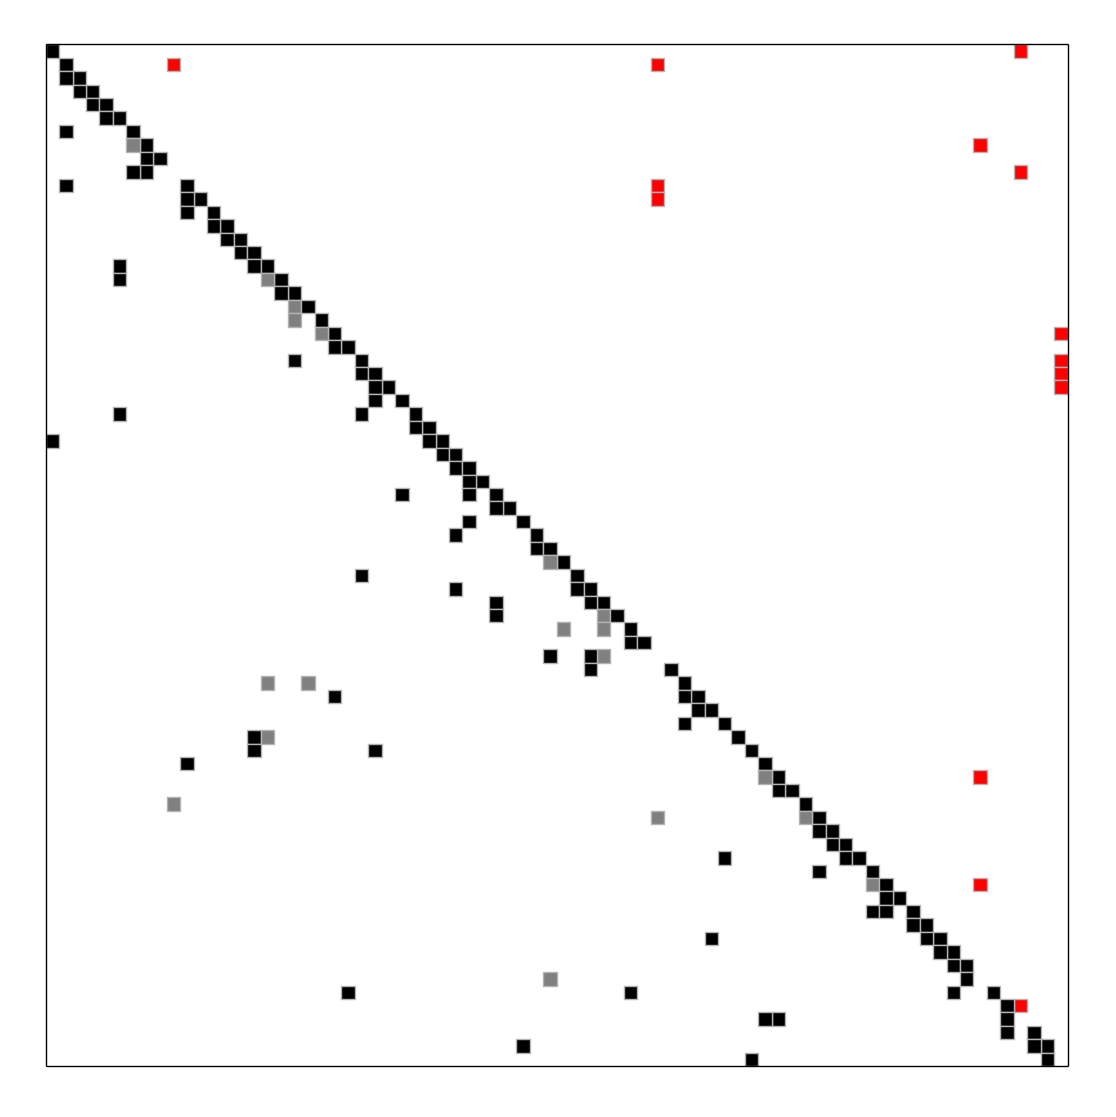
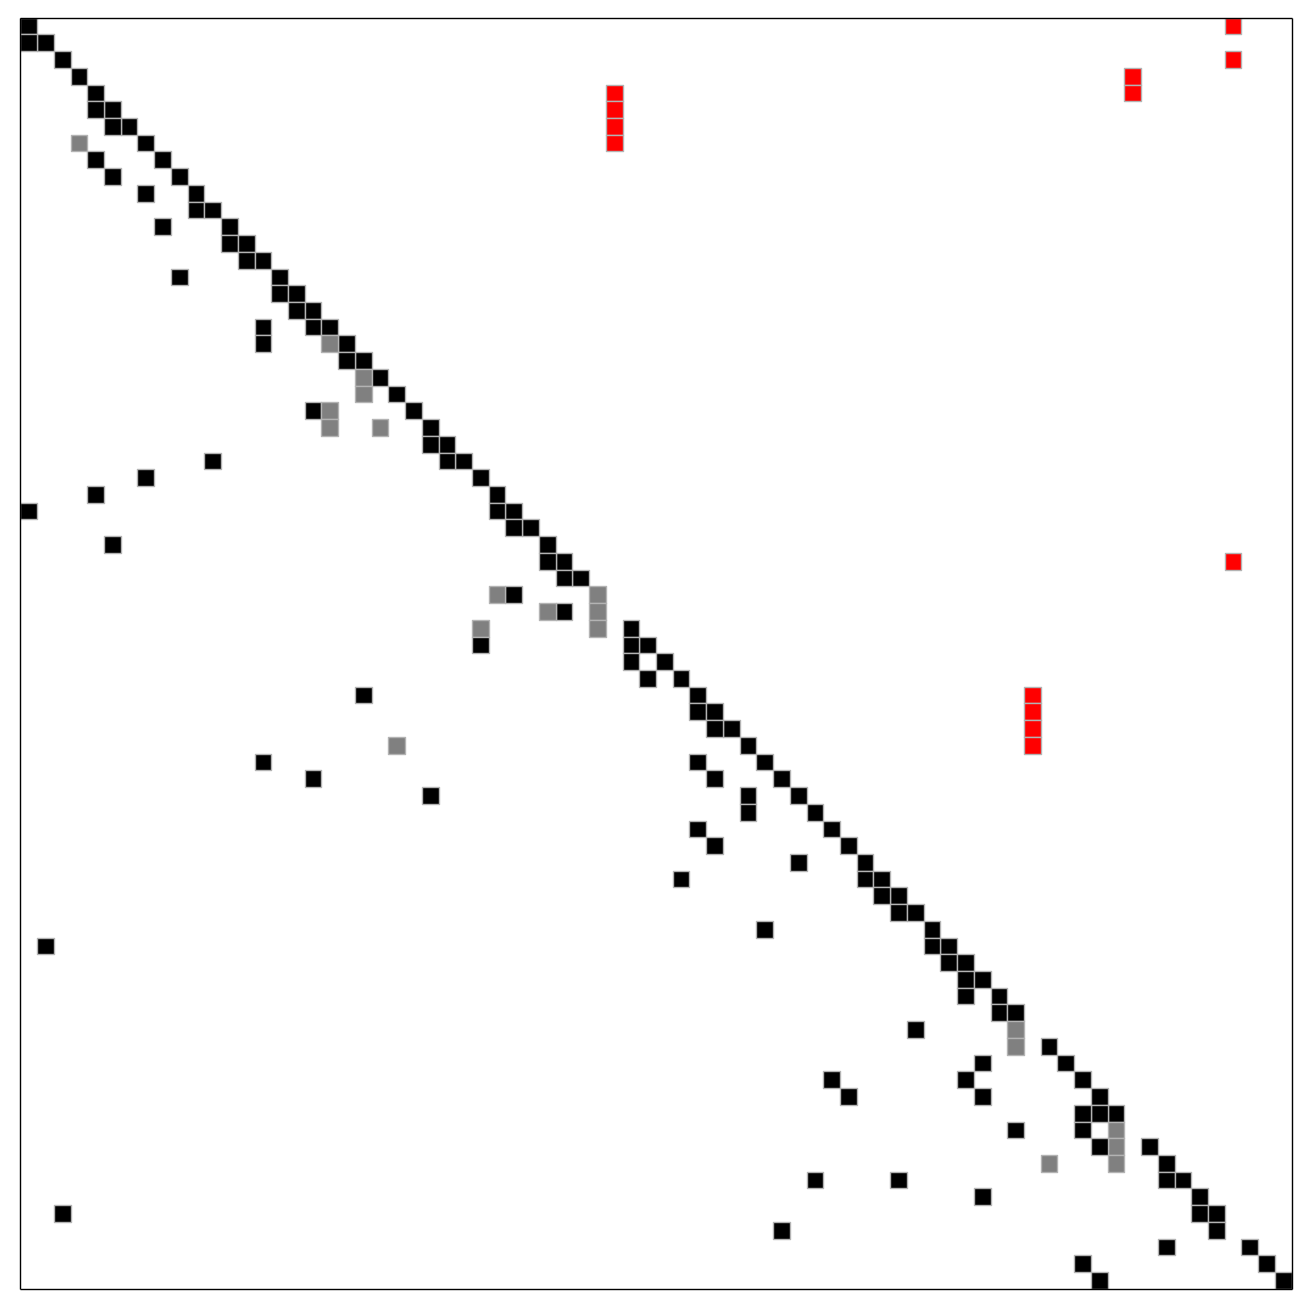
Fixing the images, now proper spiked forms

diff --git a/docs/index.rst b/docs/index.rst
@@ -23,12 +23,13 @@ under the 3-clause BSD license. The code is a work in progress. Some of the code
 will be contributed back to 
 `NetworkX <http://networkx.github.io/documentation/latest/overview.html>`_
 wherever it is appropriate. The remaining part of the code will be released as a 
-Python package on PyPI.  
-In the meantime, the :file:`rpc_api.py` (rpc stands for remote procedure call) 
-is a good place to start looking. That API takes a sparse matrix in coordinate 
-format and returns the row and column permutation vectors.  As for the rest of 
-this web-page, a demo application :file:`demo.py` is presented here, showing the 
-capabilities of novel tearing algorithms.
+Python package on PyPI.  In the meantime, the :file:`rpc_api.py` is a good place 
+to start looking. (:file:`rpc` stands for remote procedure call; it can be 
+called from Java or C++ through the :file:`json_io.py`) The API in 
+:file:`rpc_api.py` takes a sparse matrix in coordinate format and returns the 
+row and column permutation vectors. As for the rest of this web-page, a demo 
+application :file:`demo.py` is presented here, showing the capabilities of the 
+novel tearing algorithms.
 
 --------------------------------------------------------------------------------
 
@@ -160,10 +161,12 @@ blue lines are absent.
 .. figure:: ./pics/OptimalTearing.png
    :alt: Optimal order, obtained with integer programming.
    :align: center
-   :scale: 50%
+   :scale: 39%
    
    Optimal order, obtained with integer programming
 
+Note that the first spike is the red entry right above the diagonal.
+   
 --------------------------------------------------------------------------------
 
 .. _natural-block-structure:
@@ -293,15 +296,19 @@ improve the quality of the ordering**.
 .. figure:: ./pics/MindegNoLookahead.png
    :alt: Spiked form obtained with the greedy tearing heuristic, no lookahead.
    :align: center
-   :scale: 50%
+   :scale: 39%
    
    Spiked form obtained with the greedy tearing heuristic, no lookahead
+
+
+There are five spikes: The gray entry on the diagonal also counts as a 
+spike.
 
 
 .. figure:: ./pics/MindegWithLookahead.png
    :alt: Spiked form obtained with the greedy tearing heuristic, with lookahead.
    :align: center
-   :scale: 50%
+   :scale: 39%
    
    Spiked form obtained with the greedy tearing heuristic, happens to be optimal
    with lookahead
